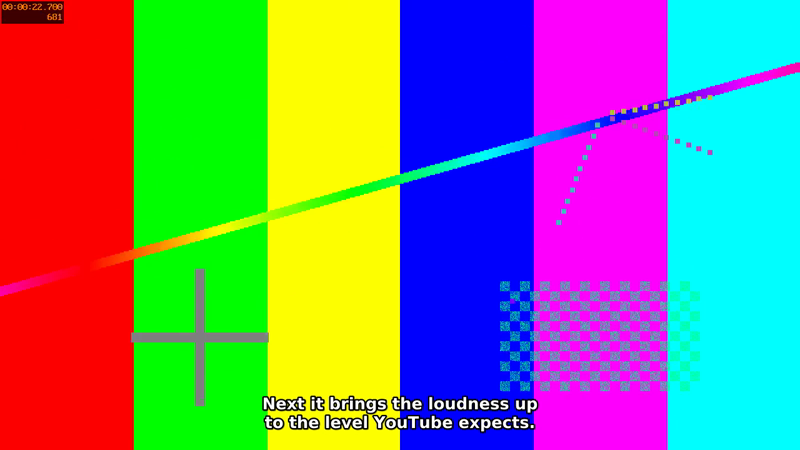
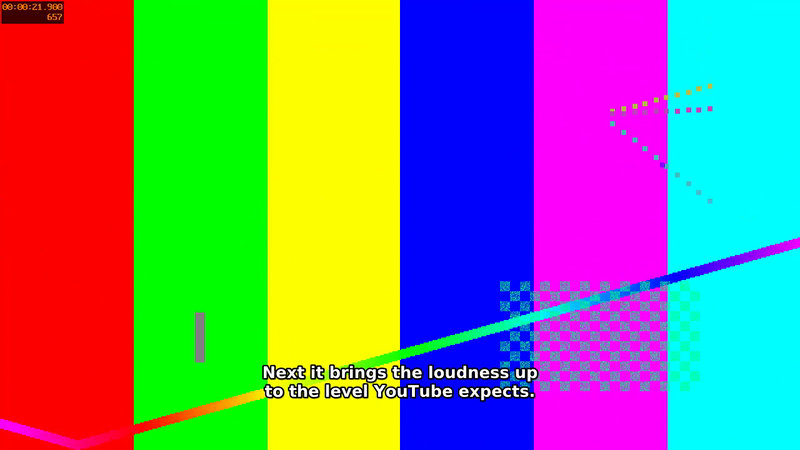
fix(captions): keep captions clear of YouTube's player controls (#8)

diff --git a/tests/test_chapters_and_config.py b/tests/test_chapters_and_config.py
@@ -66,6 +66,26 @@ def test_caption_script_escapes_and_positions():
     assert next(x for x in top.splitlines() if x.startswith("Style:")).split(",")[18] == "8"
 
 
+def _margin_v(width: int, height: int, **style: object) -> int:
+    script = captions.build_ass([], width, height, captions.CaptionStyle(**style))
+    return int(next(x for x in script.splitlines() if x.startswith("Style:")).split(",")[21])
+
+
+@pytest.mark.parametrize(
+    ("width", "height", "bottom", "top"),
+    [(1280, 720, 79, 58), (1920, 1080, 119, 86), (3840, 2160, 238, 173)],
+)
+def test_caption_margin_clears_youtube_controls(width, height, bottom, top):
+    # YouTube's controls cover the bottom ~9 % of the player and its fullscreen
+    # title bar the top ~6 % (docs/decisions.md); captions sit above or below them.
+    assert _margin_v(width, height) == bottom
+    assert _margin_v(width, height, position="bottom-left") == bottom
+    assert bottom > 0.09 * height
+    assert _margin_v(width, height, position="top") == top
+    assert top > 0.06 * height
+    assert _margin_v(width, height, margin=43) == 43  # --caption-margin still wins
+
+
 def test_nominal_fps():
     assert probe.nominal_fps("30/1", "30/1") == (Fraction(30), False)
     assert probe.nominal_fps("60/1", "2997/50") == (Fraction(60), False)

diff --git a/src/pare/captions.py b/src/pare/captions.py
@@ -14,6 +14,13 @@ from pare.srt import Cue
 
 POSITIONS = ("bottom-center", "bottom-left", "top")
 
+# Default distance from the frame edge, as a share of the frame height. YouTube's
+# progress and control bars cover the bottom ~9 % of the player in the default
+# view, and it lifts its own captions to ~11 % while they show; the fullscreen
+# title bar covers the top ~6 %. See docs/decisions.md.
+BOTTOM_MARGIN = 0.11
+TOP_MARGIN = 0.08
+
 
 @dataclass(frozen=True)
 class CaptionStyle:
@@ -49,7 +56,8 @@ def build_ass(cues: list[Cue], width: int, height: int, style: CaptionStyle) -> 
     """Return a complete ASS script for ``cues`` on a ``width`` x ``height`` frame."""
     size = style.size or round(height * 0.042)
     outline = style.outline or round(size * 0.075, 1)
-    margin_v = style.margin or round(height * 0.04)
+    share = TOP_MARGIN if style.position == "top" else BOTTOM_MARGIN
+    margin_v = style.margin or round(height * share)
     # A webcam overlay in OBS usually fills the bottom-right ~300 px of a
     # 1920 px frame; keep a sixth of the width clear on that side.
     corner = round(width / 6)

diff --git a/src/pare/config.py b/src/pare/config.py
@@ -259,7 +259,8 @@ def build_parser() -> argparse.ArgumentParser:
     )  # fmt: skip
     g.add_argument(
         "--caption-margin", type=int, metavar="PX",
-        help="distance from the frame edge in pixels (default: 4%% of the frame height)",
+        help="distance from the frame edge in pixels (default: 11%% of the frame height, 8%% "
+        "for top captions, which clears YouTube's player controls)",
     )  # fmt: skip
     g.add_argument(
         "--caption-max-chars", type=int, metavar="N",

diff --git a/docs/decisions.md b/docs/decisions.md
@@ -66,6 +66,17 @@ Note on the target: −14 LUFS is the widely reported YouTube playback level and
 
 **Rendering: Pare writes ASS and uses the `subtitles` filter**, instead of passing the SRT with `force_style`. With an SRT, libass assumes a 384×288 script, so sizes and margins are not in pixels. Pare's ASS states the real resolution, so the font size (4.2 % of the frame height), outline and margins are exact, and left/right margins of one sixth of the width keep bottom-centre captions out of the corner where a webcam overlay sits. Other positions: `bottom-left`, `top`.
 
+**Margins: clear of YouTube's player controls.** Burned-in captions cannot move out of the way when YouTube shows its progress and control bars (on hover, on pause, in the first seconds of playback, on every tap on a phone), so they sit above them. Measured on screenshots of a published 1080p video in Chrome on a 1920×1080 screen:
+
+| View                     | Player height | Controls cover (from the bottom) | YouTube's own captions lift to | Top overlay            |
+| ------------------------ | ------------- | -------------------------------- | ------------------------------ | ---------------------- |
+| Watch page, default size | 751 px        | 67 px (8.9 %)                    | 85 px (11.3 %)                 | none                   |
+| Fullscreen               | 1080 px       | 67 px (6.2 %)                    | 91 px (8.4 %)                  | title to 60 px (5.6 %) |
+
+The controls are a fixed height in screen pixels, so their share grows as the player shrinks: the default-size watch page is the case that matters most on desktop. The bottom margin is therefore 11 % of the frame height (119 px at 1080p, 79 px at 720p, 238 px at 4K), level with where YouTube lifts its own captions in that view; the lowest caption pixel then lands 120 px above the bottom edge of a 1080p frame. `top` captions get 8 % (86 px at 1080p), below the fullscreen title and the densest part of its gradient. Both are shares of the height, so every resolution matches. `--caption-margin` still sets the distance in pixels. Not measured: the mobile apps and small embedded players, where the controls take a larger share again.
+
+At this height a two-line cue at the default size spans about 880 to 960 px on a 1080p frame, which is alongside a bottom-right webcam overlay, not below it. The left and right margins of one sixth of the width keep the text out of its way: on a real recording the widest two-line cue (48 characters) ended at x = 1503, about 50 px short of a 330 px overlay.
+
 **Path escaping: avoided rather than attempted.** The `subtitles=` argument breaks on `:`, `'`, `,`, `[` and spaces, and escaping needs several nested levels. Pare runs FFmpeg with the work directory as the current directory and refers to `captions.ass`, `topics.txt`, the font and the filter-graph scripts by fixed, plain file names. User paths only ever appear as whole command-line arguments, which need no escaping. Tested with a path containing spaces, colons, quotes, brackets, commas, semicolons, `=` and `%`.
 
 Cue text is made literal for ASS: `{`, `}` and `\` would start override tags, so they are replaced with look-alike characters.

diff --git a/docs/tuning.md b/docs/tuning.md
@@ -40,7 +40,7 @@ Whisper's cue times are approximate: cues often start a little early, end late, 
 
 ## Captions
 
-- **Covering something**: `--caption-position top` or `bottom-left`; `--caption-margin 80` moves them away from the edge.
+- **Covering something**: `--caption-position top` or `bottom-left`; `--caption-margin 80` sets the distance from the edge in pixels. The default (11 % of the frame height, 119 px at 1080p; 8 % for `top`) keeps them clear of YouTube's progress and control bars, which would otherwise hide them on hover, on pause and on phones. Lower it for a platform without overlaid controls.
 - **Too big or too small**: `--caption-size 56` (pixels; the default is 4.2 % of the frame height, 45 px at 1080p).
 - **Lines too long or too short**: `--caption-max-chars 36`; `--caption-max-lines 1` for single-line captions.
 - **Another font**: `--caption-font "Noto Sans"` (any family fontconfig knows; `fc-list | grep -i noto`).
